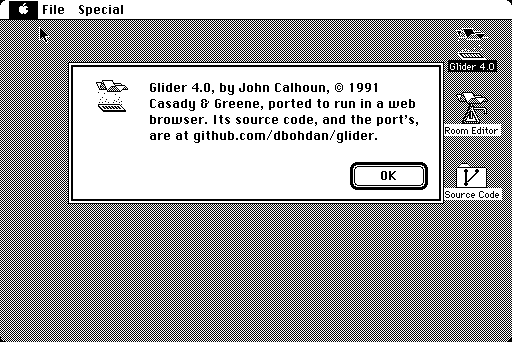
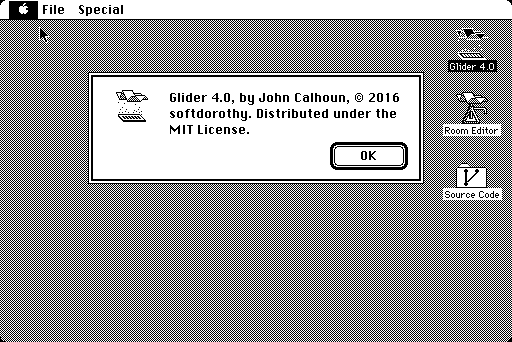
The desktop's About: the MIT License's notice; LICENSE served with the page
Claude-Session: https://claude.ai/code/session_01HKBKVT9Yis2YchroTKRJiy

Changed region(s): [[0.125, 0.1754, 0.875, 0.614]]

diff --git a/tools/DesktopResources.ts b/tools/DesktopResources.ts
@@ -142,11 +142,12 @@ export function desktopFile(root: string): MacFile {
 		[136, [10, 72, 46, 308], text('The Room Editor has not been ported yet.')],
 		[160, [10, 20, 42, 52], word(gliderIconID)],
 	]));
-	// About the Desktop…: a note alert, OK.
-	put('ALRT', 129, [...word(70), ...word(76), ...word(196), ...word(436), ...word(129), 0x55, 0x55]);
+	// About the Desktop…: a note alert, OK, with the notice the MIT License asks for (the license's
+	// whole text is served beside the page, as LICENSE).
+	put('ALRT', 129, [...word(80), ...word(96), ...word(176), ...word(416), ...word(129), 0x55, 0x55]);
 	put('DITL', 129, ditl([
-		[4, [96, 278, 116, 348], text('OK')],
-		[136, [10, 72, 90, 348], text('Glider 4.0, by John Calhoun, \u00a9 1991 Casady & Greene, ported to run in a web browser. Its source code, and the port\u2019s, are at github.com/dbohdan/glider.')],
+		[4, [66, 238, 86, 308], text('OK')],
+		[136, [10, 72, 58, 308], text('Glider 4.0, by John Calhoun, \u00a9 2016 softdorothy. Distributed under the MIT License.')],
 		[160, [10, 20, 42, 52], word(gliderIconID)],
 	]));
 	return { name: desktopFileName, type: 'FNDR', creator: 'GLD4', finderFlags: 0x4000, created: 0, modified: 0, data: new Uint8Array(0), rsrc: writeResourceFork(rf) };

diff --git a/docs/images/2026-10-19-desktop/README.md b/docs/images/2026-10-19-desktop/README.md
@@ -61,7 +61,7 @@ The oracle's case `desktop` boots System 6.0.8 into the Finder (without MultiFin
 
 ![Glider selected on the Mac II](10-port-desktop-glider-selected-mac-ii.png)
 
-**11.** About the Desktop…, an alert with Glider's icon.
+**11.** About the Desktop…, an alert with Glider's icon and the notice the MIT License asks for; the license's whole text is served beside the page.
 
 ![About the Desktop](11-port-about-the-desktop-plus.png)
 
